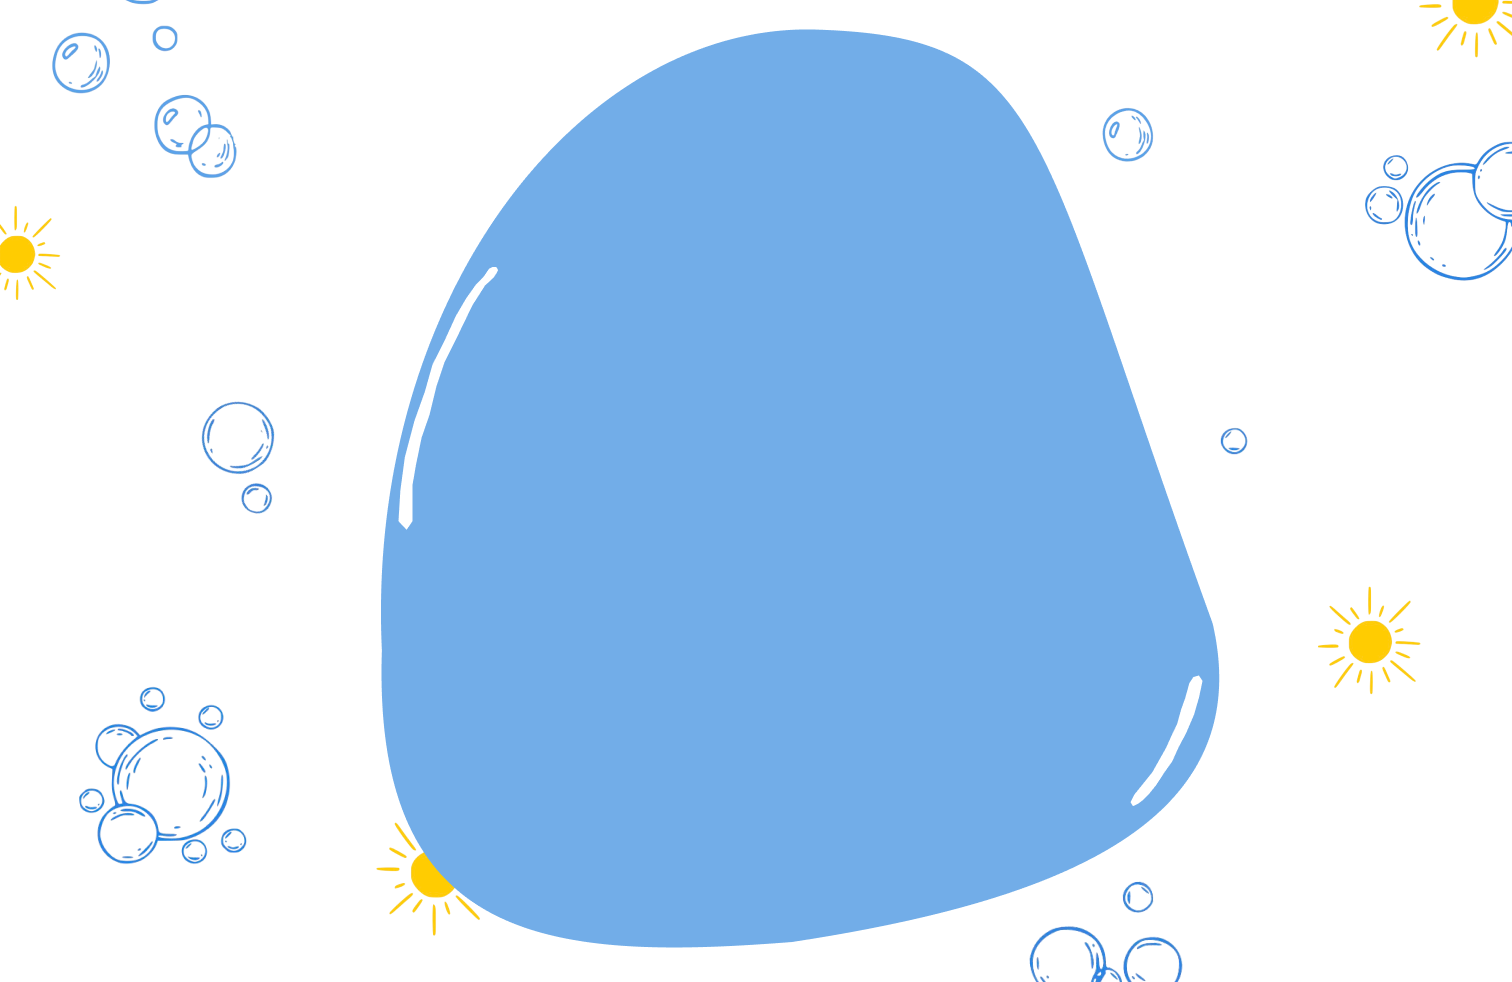
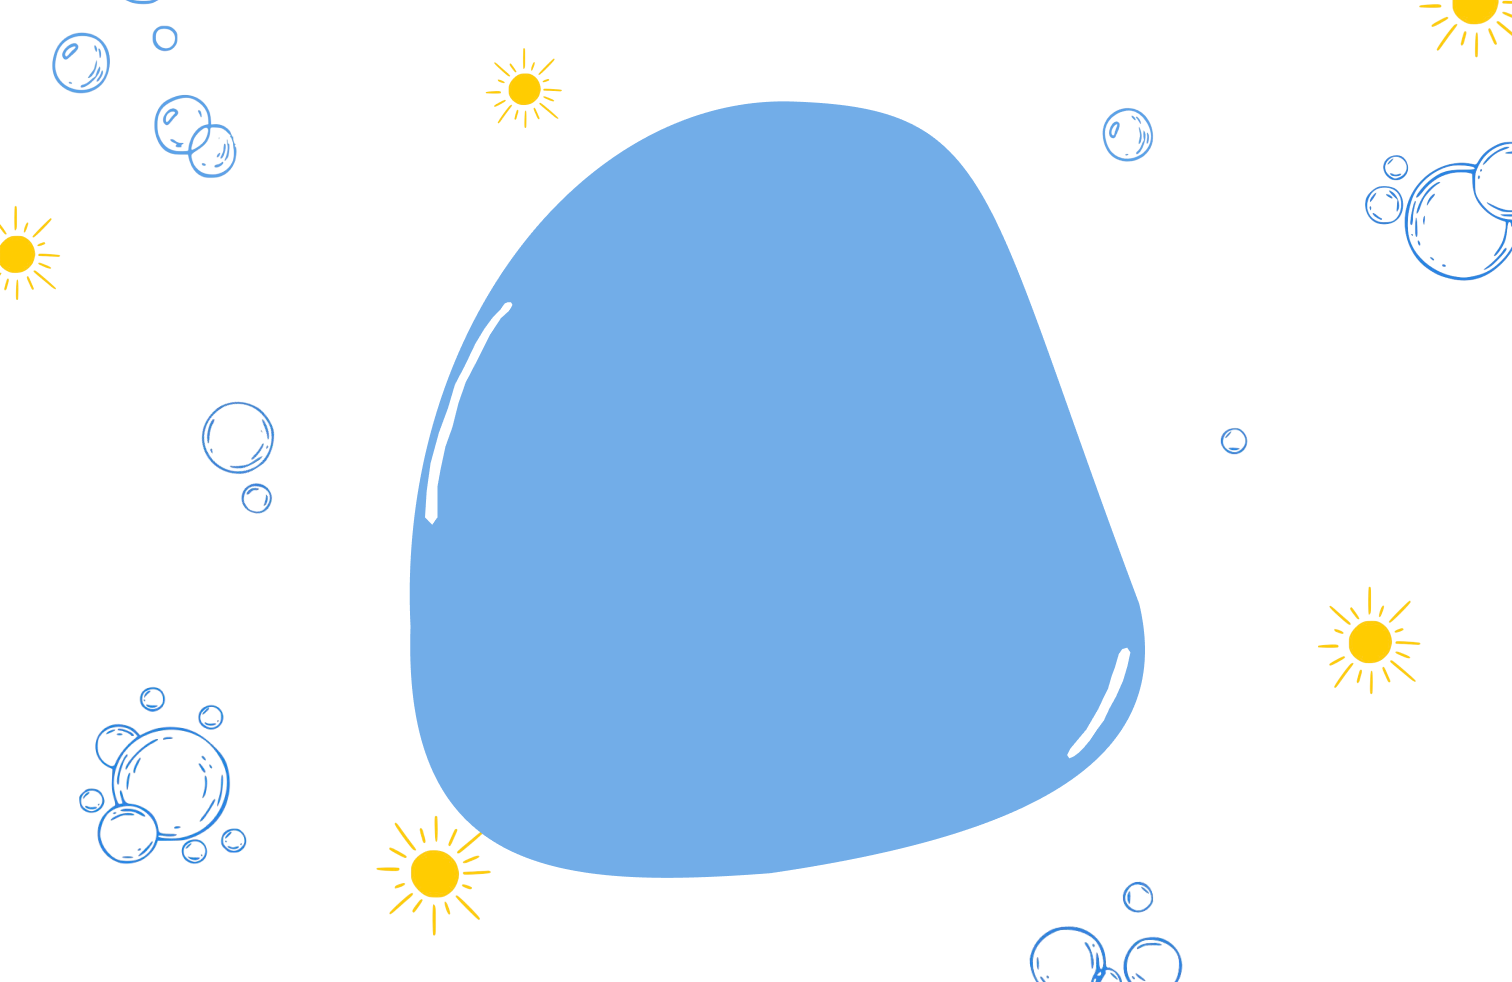
Sign Up Stylized

Changed region(s): [[0.2487, 0.0305, 0.8082, 0.9776]]

diff --git a/css/signup.css b/css/signup.css
@@ -1,0 +1,83 @@
+@font-face{
+    font-family: "Slackside One";
+    src: url("/assets/fonts/SlacksideOne-Regular.ttf") format("truetype");
+    font-weight: 400;
+    font-style: normal;
+}
+
+@font-face{
+    font-family: "Sarala Regular";
+    src: url("/assets/fonts/Sarala-Regular.ttf") format("truetype");
+    font-weight: 400;
+    font-style: normal;
+}
+
+body {
+    background-image: url("/assets/images/signupBackground.png");
+    background-repeat: no-repeat;
+    background-size: cover; 
+    background-position: center center;
+    background-attachment: fixed; 
+    height: 100vh;
+    margin: 0;
+    overflow: hidden;
+}
+
+
+h1{
+    font-family: "Slackside One";
+    font-size: 5vw;
+    font-weight: 200;
+    color: white;
+    position: relative;
+    justify-self: center;
+
+}
+
+form{
+    justify-self: center;
+}
+
+label{
+    font-family: "Sarala Regular";
+    color: white;
+    justify-items: start;
+}
+
+input{
+    border: none;
+    border-radius: 6px;
+    padding: 0.75rem 1rem;
+    padding-right: 13rem;
+    margin-bottom: 1vw;
+}
+
+#signupButton{
+    font-family: "Sarala Regular";
+    color: white;
+    border: none;
+    border-radius: 10px;
+    background: #1B538B;
+    padding: 0.1vw 1vw;
+    margin-left: 20vw;
+}
+
+#linkLogin{
+    font-family: "Slackside One";
+    font-size: 1.3vw;
+    position: relative;
+    display: flex;
+    justify-self: center; 
+    align-items: center;
+    gap: 5px;
+    margin-right: 12vw;
+}
+
+p{
+    color: white;
+}
+
+a{
+    color: #1B538B;
+    text-decoration: none;
+}

diff --git a/pages/signup.html b/pages/signup.html
@@ -3,11 +3,14 @@
 <head>
     <meta charset="UTF-8">
     <meta name="viewport" content="width=device-width, initial-scale=1.0">
+    <link rel="stylesheet" href="/css/signup.css">
+
     <title>Sign Up Page</title>
 </head>
 <body>
-    
+
     <h1> Sign Up </h1>
+
     <form>
         <label for="fNameSignUp"> First Name </label> <br>
         <input type="text" id="fNameSignUp" name="fNameSignUp"> <br>
@@ -24,11 +27,13 @@
         <label for="confirmPassword"> Confirm Password </label> <br>
         <input type="text" id="confirmPassword" name="confirmPassword"> <br>
    
-        <input type="submit" value="Sign Up">
+        <input id="signupButton" type="submit" value="Sign Up">
     </form>
 
-    <p> Have an account? </p>
-    <a href="/pages/login.html"> LOGIN </a>
-
+    <div id="linkLogin">
+        <p> Have an account? </p>
+        <a href="/pages/login.html"> LOGIN </a>
+    </div>
+   
 </body>
 </html>

diff --git a/pages/login.html b/pages/login.html
@@ -3,6 +3,8 @@
 <head>
     <meta charset="UTF-8">
     <meta name="viewport" content="width=device-width, initial-scale=1.0">
+    <link rel="stylesheet" href="/css/login.css">
+
     <title>Log In Page</title>
 </head>
 <body>
